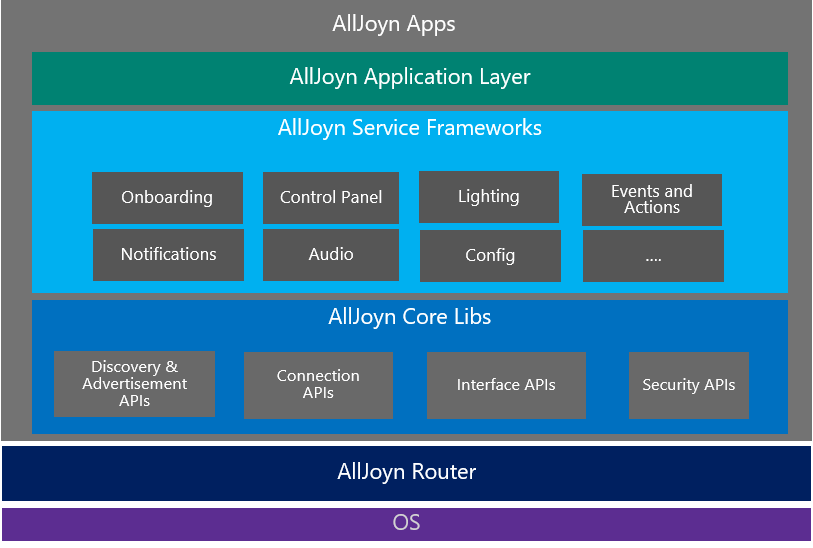
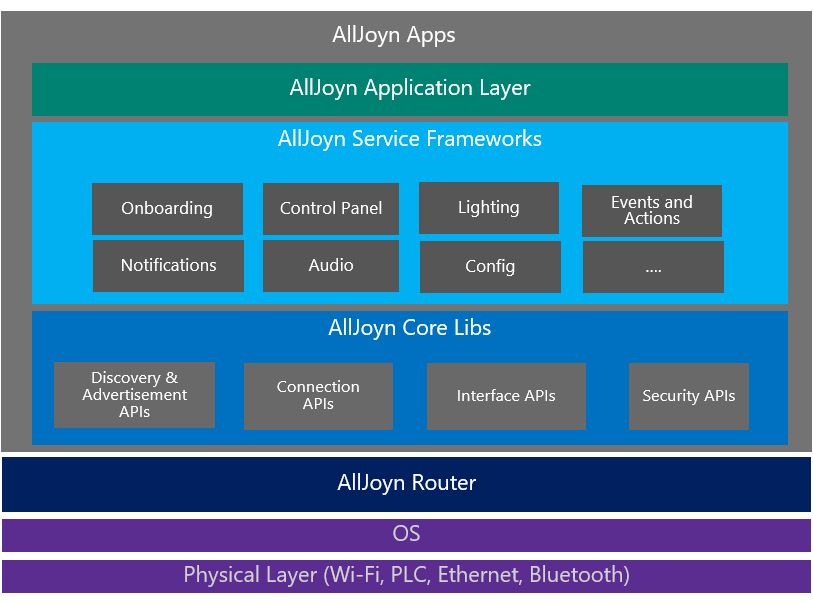
Updates to AllJoyn Documentation
Updated images based on feedback, made AllJoyn link more visible on
'Docs & Samples' page and cleaned up formatting on AllJoyn landing page.

diff --git a/win10/AllJoyn.md b/win10/AllJoyn.md
@@ -7,12 +7,15 @@ permalink: /win10/AllJoyn.htm
 ##AllJoyn 
 
 **What is AllJoyn?** 
+
 Driven by the AllSeen Alliance, AllJoyn is an open-source, proximity-based connectivity and services framework.  Specifically designed for the Internet of Things (IoT), it enables interoperability such that various devices can discover, connect, and communicate with each other directly, without the need for an intermediary server.  
 
 **Why AllJoyn?** 
+
 The AllJoyn framework provides a common language interface that enables IoT devices to communicate and interact with each other, regardless of brand, platform, operating system or underlying transport technology. For developers, this translates to reduced time to market and lower cost while offering consumers a simple connectivity solution for all their devices.  
 
 **AllJoyn Architecture** 
+
 The AllJoyn framework establishes a standard by which devices and apps can advertise and discover each other.  AllJoyn devices describe their capabilities via service interfaces on a virtual bus.  The AllJoyn Bus is composed of two types of nodes:
 
 * *Routing Notes (RN)* - Also referred to as "Routers", they can talk to any node.
@@ -38,6 +41,7 @@ The AllJoyn framework comes in 2 flavors:
 AllJoyn enables proximity based communication, allowing transport to occur over Ethernet, Wi-Fi, serial, and Power Line (PLC).  However, the AllJoyn framework is transport-agnostic, thus allowing for any future transport mechanisms to be added.  Additionally, bridge software can be created to link the AllJoyn framework to other systems like Zigbee, Z-wave, or the cloud.  See more details & samples below on the AllJoyn Device System Bridge contribution to the AllSeen Alliance from Microsoft.  
 
 **AllJoyn Device System Bridge** 
+
 Device System Bridges (DSBs) can help facilitate communication across existing incompatible networks.  DSBs offer a cost efficient and quick way to bring existing devices to AllJoyn as virtual devices on the AllJoyn network.  This is done through a pre-baked AllJoyn producer implementation (Bridge), and implementing calls to SDK hooks to support translation of AllJoyn concepts to target devices (Adapter).  Developers need not modify AllJoyn producers with a DSB, unless a change in the default behavior of the Bridge is desired.  For more information on the purpose of Device System Bridges and its structure, check out this 
 [whitepaper.](https://git.allseenalliance.org/cgit/dsb.git/plain/Docs/AllJoyn - Device System Bridge - Whitepaper v1.0.pdf){:target="_blank"}
 ![AllJoyn DSB Architecture]({{site.baseurl}}/images/AllJoyn/AllJoyn_DSBArch.png)

diff --git a/win10/StartCoding.md b/win10/StartCoding.md
@@ -52,7 +52,7 @@ permalink: /win10/StartCoding.htm
                 </div>
                 <div class="row section-heading">
                     <div class="col-md-3">
-                        <h4>AllJoyn</h4>
+                        <h4>AllJoyn Connectivity</h4>
                         <p>Learn more about AllJoyn and explore the capabilities of the AllJoyn Device System Bridge with Windows 10 IoT Core Insider Preview</p>
                         <a href="{{site.baseurl}}/win10/AllJoyn.htm">Learn More</a>
                     </div>
@@ -129,10 +129,10 @@ permalink: /win10/StartCoding.htm
                         <p>Create an app using SPI on devices running Windows 10 IoT Core Insider Preview</p>
                         <a href="{{site.baseurl}}/win10/samples/SPIDisplay.htm">Learn More</a>
                     </div>
-                    <div class="col-md-3">
-                        <h4>Driver Sample</h4>
-                        <p>Create and interact with a universal driver on devices running Windows 10 IoT Core Insider Preview</p>
-                        <a href="{{site.baseurl}}/win10/samples/DriverLab.htm">Learn More</a>
+					<div class="col-md-3">
+                        <h4>AllJoyn Connectivity</h4>
+                        <p>Learn more about AllJoyn and explore capabilities of the AllJoyn Device System Bridge with Windows 10 IoT Core Insider Preview</p>
+                        <a href="{{site.baseurl}}/win10/AllJoyn.htm">Learn More</a>
                     </div>
                 </div>
 
@@ -199,9 +199,9 @@ permalink: /win10/StartCoding.htm
                         <a href="{{site.baseurl}}/win10/samples/potentiometer.htm">Learn More</a>
                     </div>
                     <div class="col-md-3">
-                        <h4>AllJoyn</h4>
-                        <p>Learn more about AllJoyn, explore capabilities of the AllJoyn Device System Bridge, and turn Z-Wave devices & GPIO pins into AllJoyn devices with Windows 10 IoT Core Insider Preview</p>
-                        <a href="{{site.baseurl}}/win10/AllJoyn.htm">Learn More</a>
+                        <h4>Driver Sample</h4>
+                        <p>Create and interact with a universal driver on devices running Windows 10 IoT Core Insider Preview</p>
+                        <a href="{{site.baseurl}}/win10/samples/DriverLab.htm">Learn More</a>
                     </div>
                 </div>
 
